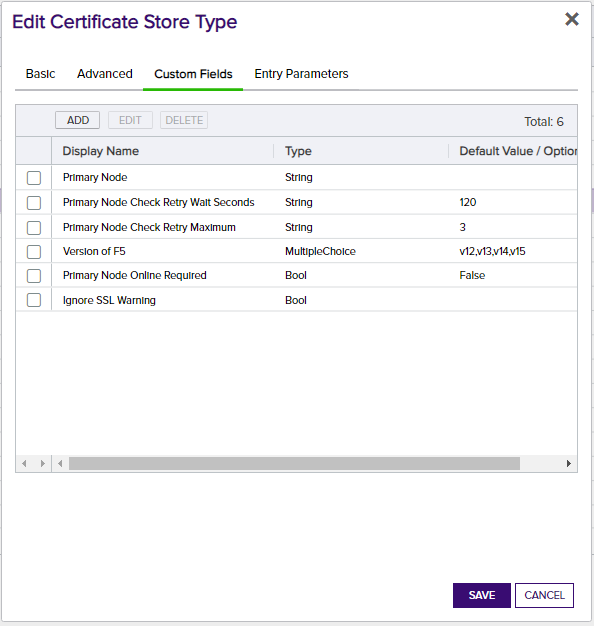
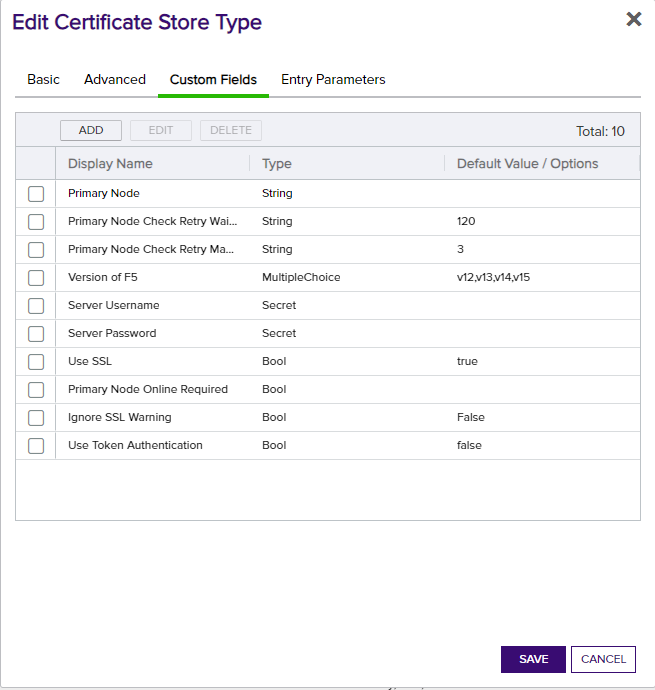
Make token auth selectable

diff --git a/readme_source.md b/readme_source.md
@@ -67,7 +67,7 @@ The version number of a the F5 Orchestrator can be verified by right clicking on
 
 
 
-The Custom Fields tab contains 6 custom store parameters.  The set up is consistent across store types, and should look as follows:
+The Custom Fields tab contains 10 custom store parameters (3 of which, Server Username, Server Password, and Use SSL were set up on the Basic tab and are not actually custom parameters you need or want to modify on this tab).  The set up is consistent across store types, and should look as follows:
 
 ![](images/image3.png)<br>  
 ![](images/image6.png)<br>  
@@ -76,6 +76,7 @@ The Custom Fields tab contains 6 custom store parameters.  The set up is consist
 ![](images/image4.png)<br>  
 ![](images/image5.png)<br>  
 ![](images/image15.png)<br>  
+![](images/image16.png)<br>  
 
 If any or all of the 3 certificate store types were already set up on installation of Keyfactor, you may only need to add Primary Node Online Required and Ignore SSL Warning.  These parameters, however, are optional and only necessary if needed to be set to true.  Please see the descriptions below in "2a. Create a F5 Certificate Store wihin Keyfactor Command.
 
